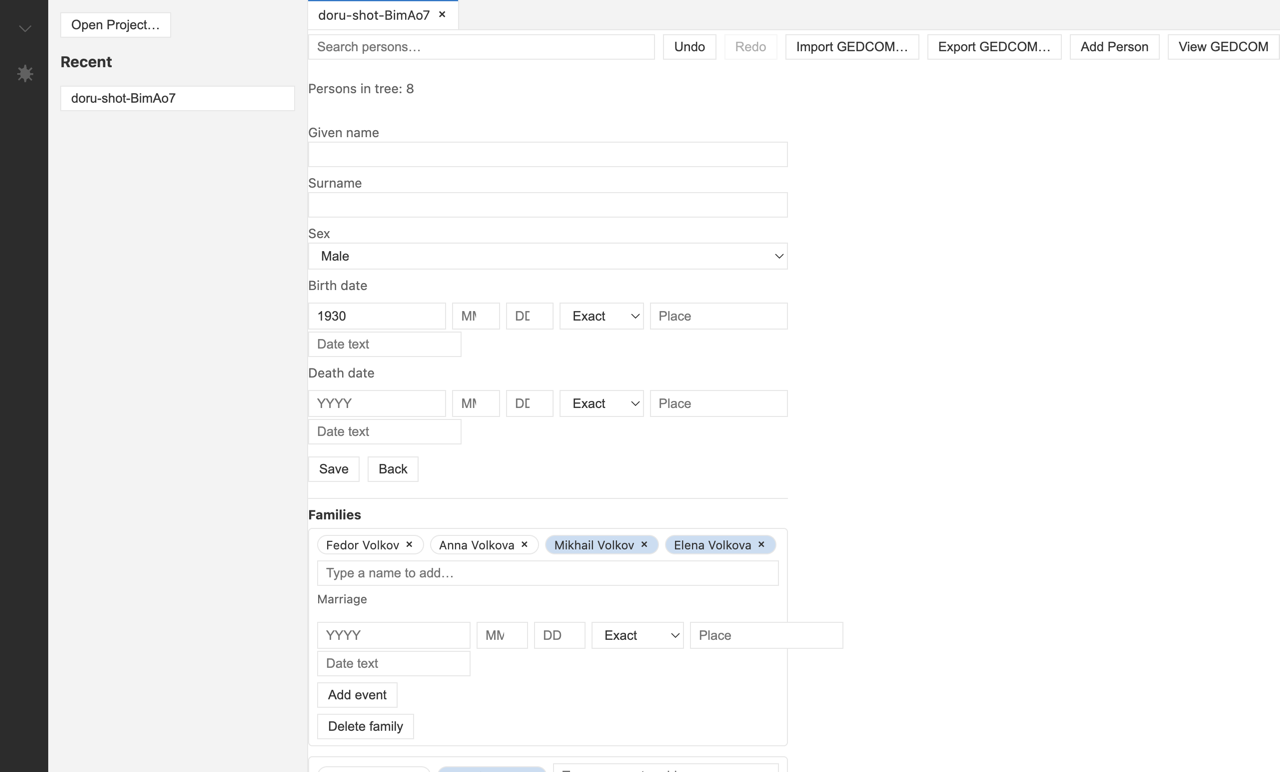
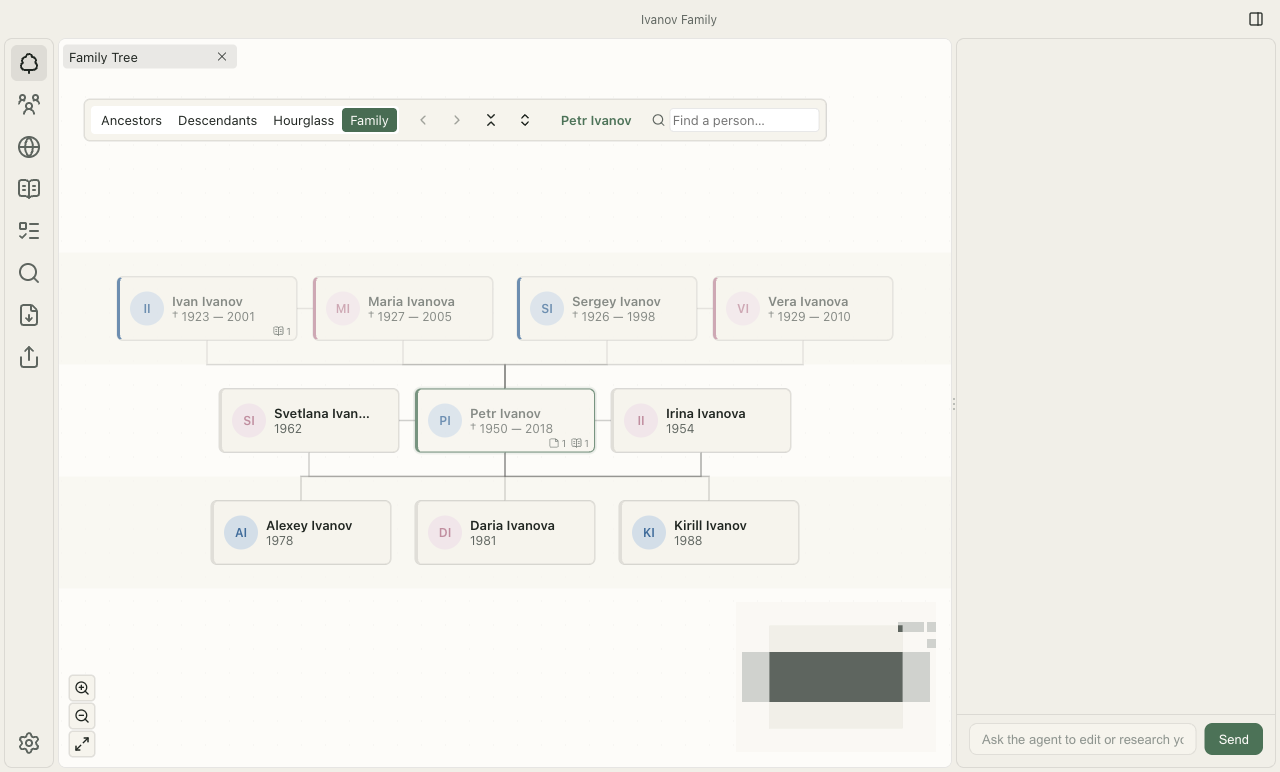
style: theme the website with the app palette and refresh the screenshot
Map the VitePress theme onto the desktop app's theme tokens
(themes/doru-light/theme.json, themes/doru-dark/theme.json): the
same surfaces, text colors, alpha hairline borders, sage accent and
system font stack, in both light and dark mode.

Recapture the README/site screenshot from the current build: a
family chart around Petr Ivanov in the light theme.

diff --git a/apps/website/.vitepress/theme/style.css b/apps/website/.vitepress/theme/style.css
@@ -1,20 +1,141 @@
+/* Dóru website theme — mirrors the desktop app's theme tokens
+   (themes/doru-light/theme.json and themes/doru-dark/theme.json),
+   so the site and the app feel like one product. */
+
 :root {
-  /* Icon.icon palette: #414f41/#1f2b24 — background gradient,
-     #263b2e — glyph green, #ece1d2 — glyph cream */
-  --vp-c-brand-1: #414f41;
-  --vp-c-brand-2: #263b2e;
-  --vp-c-brand-3: #414f41;
-  --vp-c-brand-soft: rgba(65, 79, 65, 0.14);
-  --vp-button-brand-hover-bg: #263b2e;
-  --vp-home-hero-name-background: linear-gradient(120deg, #414f41 20%, #263b2e 90%);
+  /* Surfaces — canvas (page) < chrome (nav/sidebar) < raised < popover */
+  --vp-c-bg: #fdfcf9; /* bg-canvas */
+  --vp-c-bg-alt: #f2efe7; /* bg-chrome */
+  --vp-c-bg-elv: #ffffff; /* bg-popover */
+  --vp-c-bg-soft: #f7f4ec; /* bg-raised */
+
+  /* Text */
+  --vp-c-text-1: #1f2621; /* fg */
+  --vp-c-text-2: #5d655f; /* fg-muted */
+  --vp-c-text-3: #8d958f; /* fg-faint */
+
+  /* Alpha hairline borders, like the app */
+  --vp-c-border: rgba(0, 0, 0, 0.18); /* border-strong */
+  --vp-c-divider: rgba(0, 0, 0, 0.09); /* border */
+  --vp-c-gutter: rgba(0, 0, 0, 0.09);
+
+  /* Accent — forest / sage from the Dóru icon */
+  --vp-c-brand-1: #3f7355; /* accent */
+  --vp-c-brand-2: #35624a; /* accent-hover */
+  --vp-c-brand-3: #2c5340; /* accent-active */
+  --vp-c-brand-soft: rgba(63, 115, 85, 0.12); /* accent-alpha */
+
+  /* Neutral function colors on app surfaces */
+  --vp-c-default-1: #1f2621;
+  --vp-c-default-2: #5d655f;
+  --vp-c-default-3: #f2efe7;
+  --vp-c-default-soft: rgba(0, 0, 0, 0.06);
+
+  /* States — Dóru Light */
+  --vp-c-success-1: #2f7d43;
+  --vp-c-success-2: #256b36;
+  --vp-c-success-3: #1c5730;
+  --vp-c-success-soft: rgba(47, 125, 67, 0.16);
+  --vp-c-warning-1: #9a6a00;
+  --vp-c-warning-2: #7d5600;
+  --vp-c-warning-3: #634400;
+  --vp-c-warning-soft: rgba(154, 106, 0, 0.16);
+  --vp-c-danger-1: #c2412d;
+  --vp-c-danger-2: #a03524;
+  --vp-c-danger-3: #7e2a1d;
+  --vp-c-danger-soft: rgba(194, 65, 45, 0.14);
+  --vp-c-info-1: #2d6c9e;
+  --vp-c-info-2: #245a85;
+  --vp-c-info-3: #1c486c;
+  --vp-c-info-soft: rgba(45, 108, 158, 0.14);
+
+  /* Brand button — accent with on-accent text, like the app */
+  --vp-button-brand-text: #fdfcf9; /* on-accent */
+  --vp-button-brand-hover-text: #fdfcf9;
+  --vp-button-brand-active-text: #fdfcf9;
+  --vp-button-brand-bg: var(--vp-c-brand-1);
+  --vp-button-brand-hover-bg: var(--vp-c-brand-2);
+  --vp-button-brand-active-bg: var(--vp-c-brand-3);
+
+  /* Chrome surfaces: nav, local nav and sidebar use the app chrome color */
+  --vp-nav-bg-color: var(--vp-c-bg-alt);
+  --vp-local-nav-bg-color: var(--vp-c-bg-alt);
+
+  /* Hero — sage gradient on the name, soft accent glow behind */
+  --vp-home-hero-name-color: transparent;
+  --vp-home-hero-name-background: linear-gradient(120deg, #3f7355 20%, #2c5340 90%);
+  --vp-home-hero-image-background-image: radial-gradient(
+    60% 60% at 50% 40%,
+    rgba(63, 115, 85, 0.18) 0%,
+    transparent 100%
+  );
+  --vp-home-hero-image-filter: none;
+
+  /* The app's system font stack */
+  --vp-font-family-base: -apple-system, BlinkMacSystemFont, 'Segoe UI', Ubuntu,
+    Cantarell, 'Helvetica Neue', sans-serif, 'Apple Color Emoji',
+    'Segoe UI Emoji', 'Segoe UI Symbol', 'Noto Color Emoji';
 }
 
 .dark {
-  --vp-c-brand-1: #ece1d2;
-  --vp-c-brand-2: #899289;
-  --vp-c-brand-3: #414f41;
-  --vp-c-brand-soft: rgba(236, 225, 210, 0.16);
-  --vp-home-hero-name-background: linear-gradient(120deg, #ece1d2 20%, #899289 100%);
+  /* Surfaces — Dóru Dark */
+  --vp-c-bg: #0f1311; /* bg-canvas */
+  --vp-c-bg-alt: #161a17; /* bg-chrome */
+  --vp-c-bg-elv: #1b201c; /* bg-raised */
+  --vp-c-bg-soft: #202621; /* bg-popover */
+
+  /* Text */
+  --vp-c-text-1: #c7cdc8; /* fg */
+  --vp-c-text-2: #8d958f; /* fg-muted */
+  --vp-c-text-3: #5d655f; /* fg-faint */
+
+  /* Alpha hairline borders */
+  --vp-c-border: rgba(255, 255, 255, 0.16); /* border-strong */
+  --vp-c-divider: rgba(255, 255, 255, 0.08); /* border */
+  --vp-c-gutter: rgba(255, 255, 255, 0.08);
+
+  /* Accent — sage on dark canvas */
+  --vp-c-brand-1: #63a37f; /* accent */
+  --vp-c-brand-2: #78b894; /* accent-hover */
+  --vp-c-brand-3: #518b68; /* accent-active */
+  --vp-c-brand-soft: rgba(99, 163, 127, 0.14); /* accent-alpha */
+
+  /* Neutral function colors */
+  --vp-c-default-1: #c7cdc8;
+  --vp-c-default-2: #8d958f;
+  --vp-c-default-3: #161a17;
+  --vp-c-default-soft: rgba(255, 255, 255, 0.06);
+
+  /* States — Dóru Dark */
+  --vp-c-success-1: #7fc690;
+  --vp-c-success-2: #98d4a7;
+  --vp-c-success-3: #63a37f;
+  --vp-c-success-soft: rgba(127, 198, 144, 0.14);
+  --vp-c-warning-1: #d9b45c;
+  --vp-c-warning-2: #e3c47e;
+  --vp-c-warning-3: #b08c36;
+  --vp-c-warning-soft: rgba(217, 180, 92, 0.14);
+  --vp-c-danger-1: #e0745f;
+  --vp-c-danger-2: #e8927f;
+  --vp-c-danger-3: #bd5c49;
+  --vp-c-danger-soft: rgba(224, 116, 95, 0.14);
+  --vp-c-info-1: #7fb3c9;
+  --vp-c-info-2: #9ec4d6;
+  --vp-c-info-3: #5f93ac;
+  --vp-c-info-soft: rgba(127, 179, 201, 0.14);
+
+  /* Brand button — accent with the dark on-accent text */
+  --vp-button-brand-text: #0c1510; /* on-accent */
+  --vp-button-brand-hover-text: #0c1510;
+  --vp-button-brand-active-text: #0c1510;
+
+  /* Hero */
+  --vp-home-hero-name-background: linear-gradient(120deg, #78b894 20%, #63a37f 90%);
+  --vp-home-hero-image-background-image: radial-gradient(
+    60% 60% at 50% 40%,
+    rgba(99, 163, 127, 0.16) 0%,
+    transparent 100%
+  );
 }
 
 .doru-screenshot {
@@ -28,11 +149,18 @@
   width: 100%;
   height: auto;
   border: 1px solid var(--vp-c-divider);
-  border-radius: 12px;
+  border-radius: 8px; /* the app's --doru-radius-lg */
+  box-shadow: var(--vp-shadow-2);
 }
 
 .VPHome {
   margin-bottom: 32px !important;
+}
+
+/* Feature cards on the home page use the app's raised surfaces and
+   radius instead of VitePress' default 12px. */
+.VPFeature {
+  border-radius: 8px;
 }
 
 .doru-read-docs {
